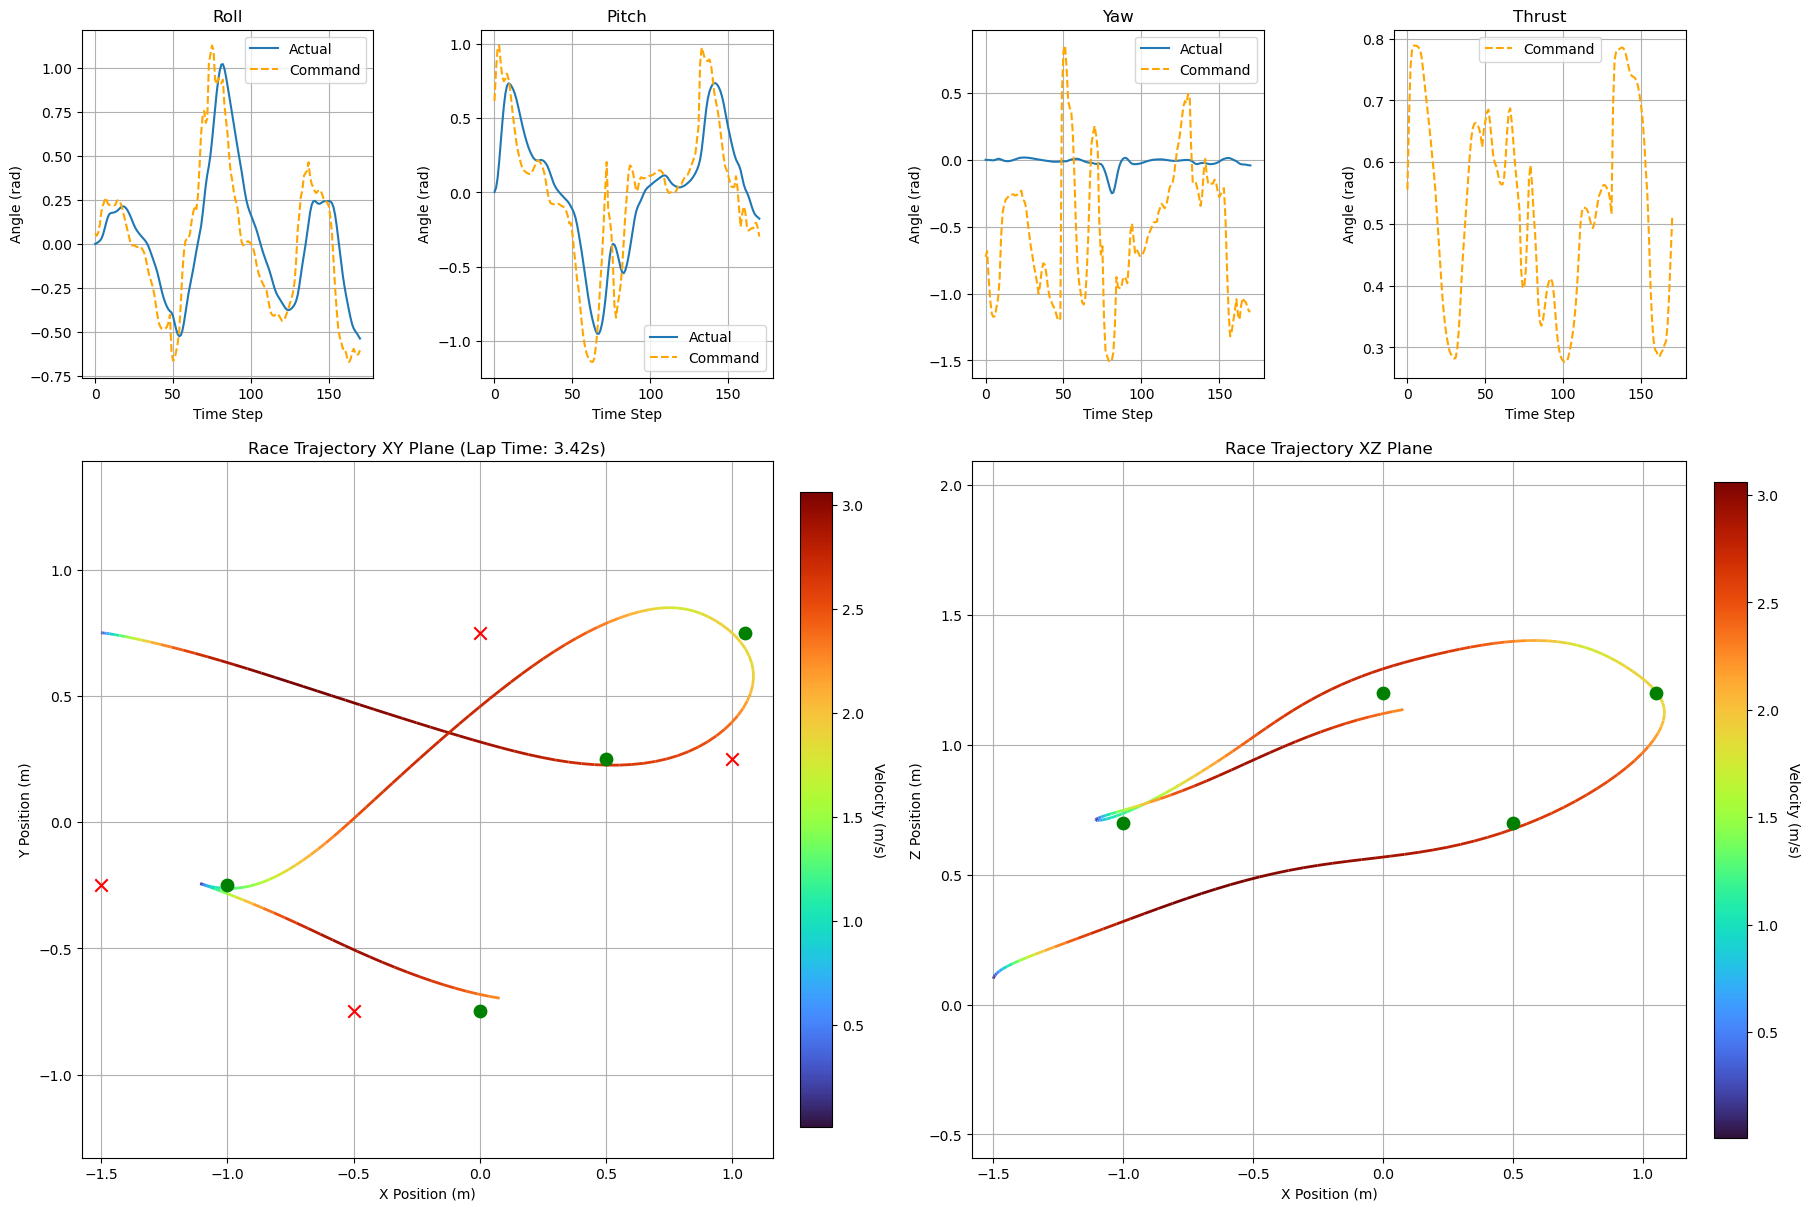
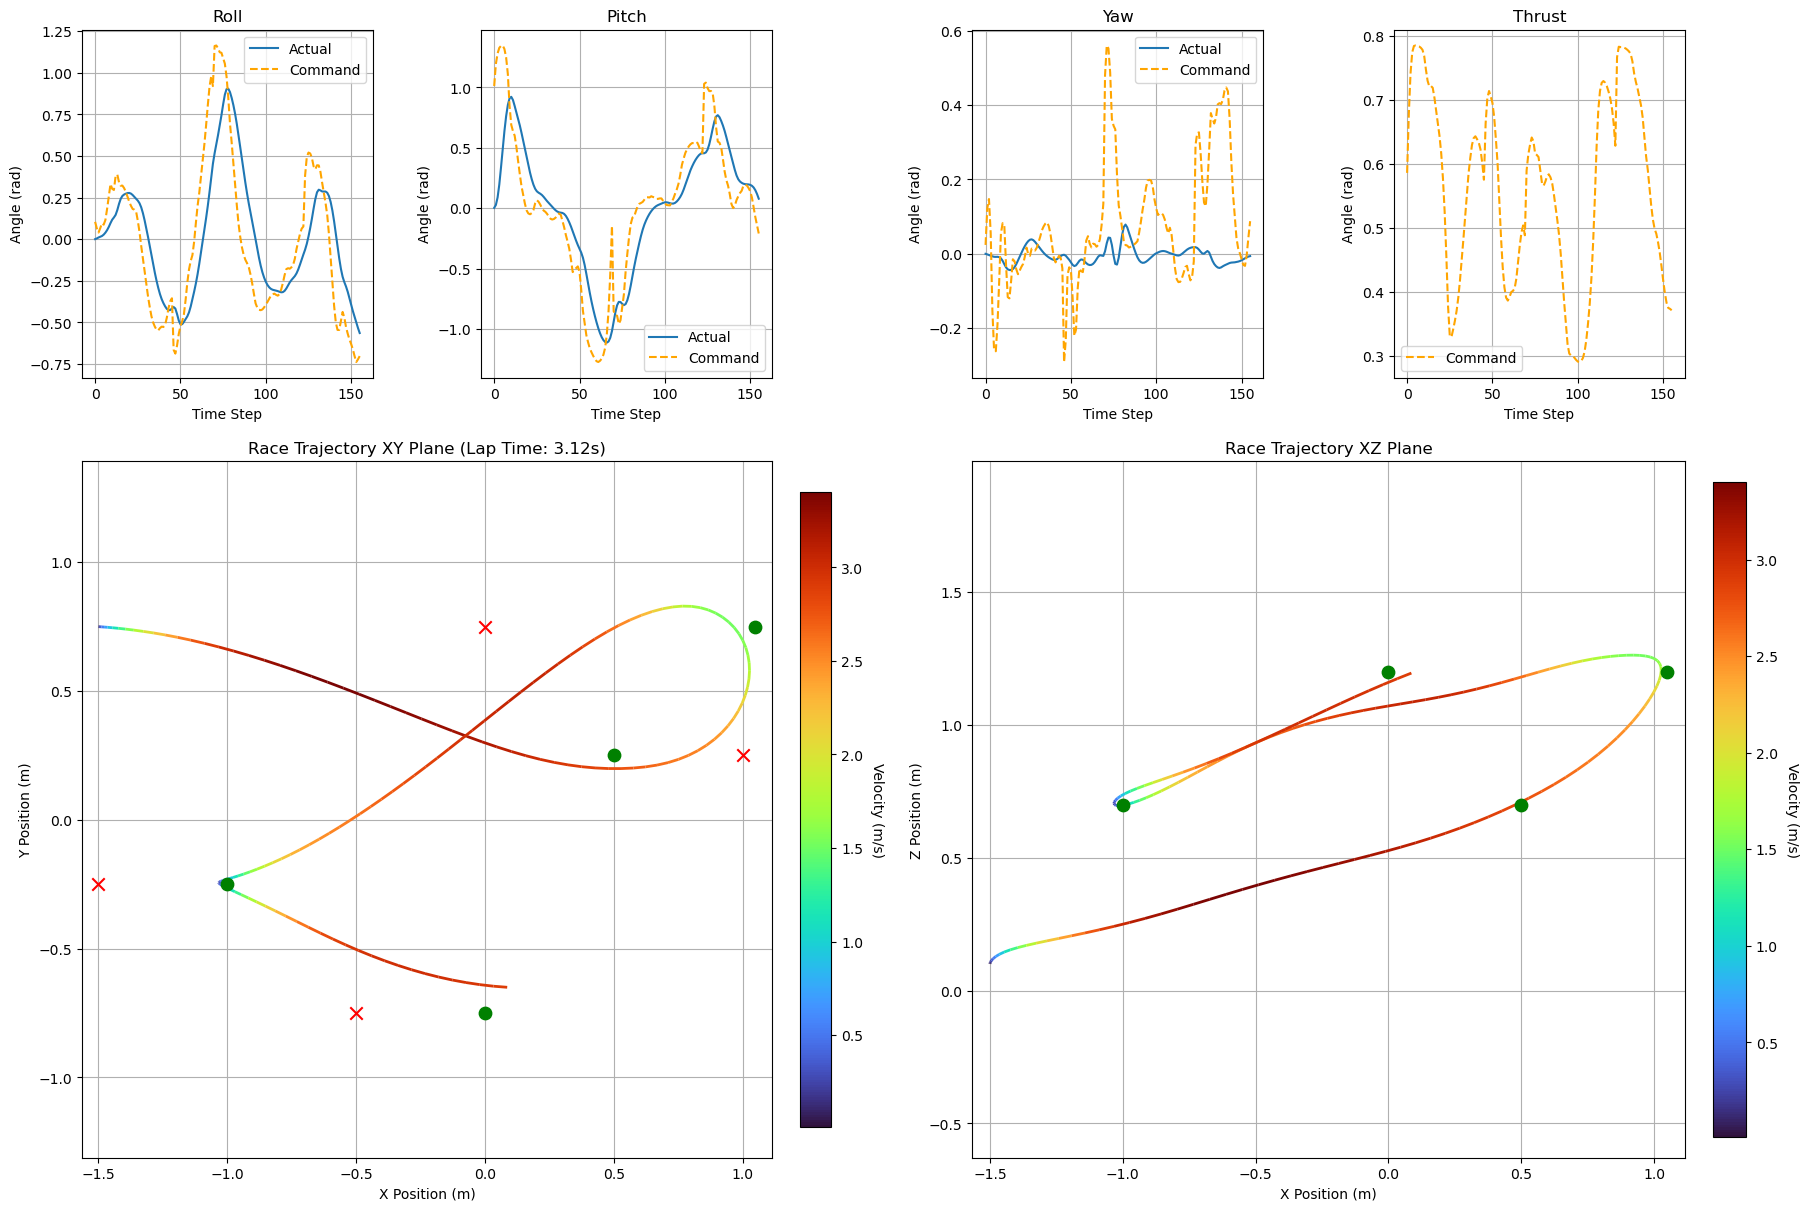
Fix ppo race training.

diff --git a/rl_diffsim/ppo/sweep_ppo.py b/rl_diffsim/ppo/sweep_ppo.py
@@ -5,7 +5,7 @@ from pathlib import Path
 import numpy as np
 
 import wandb
-from rl_diffsim.ppo.train_ppo_figure8 import Args, evaluate_ppo, train_ppo
+from rl_diffsim.ppo.train_ppo_race import Args, evaluate_ppo, train_ppo
 
 
 # 1: Define objective/training function
@@ -14,14 +14,14 @@ def train():
     with wandb.init(project="rl_diffsim-PPO-sweep") as run:
         cfg = dict(run.config)
         # Rebuild coefficient tuples from flattened sweep parameters if present
-        act_coefs = tuple(
-            cfg.pop(f"act_coefs_{i}") if f"act_coefs_{i}" in cfg else Args.act_coefs[i]
-            for i in range(len(Args.act_coefs))
-        )
-        d_act_coefs = tuple(
-            cfg.pop(f"d_act_coefs_{i}") if f"d_act_coefs_{i}" in cfg else Args.d_act_coefs[i]
-            for i in range(len(Args.d_act_coefs))
-        )
+        # act_coefs = tuple(
+        #     cfg.pop(f"act_coefs_{i}") if f"act_coefs_{i}" in cfg else Args.act_coefs[i]
+        #     for i in range(len(Args.act_coefs))
+        # )
+        # d_act_coefs = tuple(
+        #     cfg.pop(f"d_act_coefs_{i}") if f"d_act_coefs_{i}" in cfg else Args.d_act_coefs[i]
+        #     for i in range(len(Args.d_act_coefs))
+        # )
         # gate_size = tuple(
         #     cfg.pop(f"gate_size_{i}") if f"gate_size_{i}" in cfg else Args.gate_size[i]
         #     for i in range(len(Args.gate_size))
@@ -34,8 +34,8 @@ def train():
         #     cfg.pop(f"contact_coef_{i}") if f"contact_coef_{i}" in cfg else Args.contact_coef[i]
         #     for i in range(len(Args.contact_coef))
         # )
-        cfg["act_coefs"] = act_coefs
-        cfg["d_act_coefs"] = d_act_coefs
+        # cfg["act_coefs"] = act_coefs
+        # cfg["d_act_coefs"] = d_act_coefs
         # cfg["gate_size"] = gate_size
         # cfg["gate_vel_coef"] = gate_vel_coef
         # cfg["contact_coef"] = contact_coef
@@ -47,26 +47,16 @@ def train():
         )
         # average over rewards curve: aiming at faster convergence
         mean_rewards = np.asarray(sum_rewards_hist).mean()
-        # # score based on final performance
-        # _, success_count, episode_rewards, avg_lap_time = evaluate_ppo(
-        #     args=args, n_eval=20, model_path=model_path, render=False, plot=False
-        # )
-        # score = success_count - avg_lap_time * 5.0
-        # run.log({"score": score})
-        # run.log({"mean_rewards": mean_rewards})
-        # run.log({"final_reward": np.mean(episode_rewards)})
-        # run.log({"success_count": success_count})
-        # run.log({"avg_lap_time": avg_lap_time})
-
-        _, rmse_pos, episode_rewards, _ = evaluate_ppo(
-            args=args, n_eval=1, model_path=model_path, render=False
+        # score based on final performance
+        _, success_count, episode_rewards, avg_lap_time = evaluate_ppo(
+            args=args, n_eval=1, model_path=model_path, render=False, plot=False
         )
-        score = mean_rewards - 200 * rmse_pos
+        score = -avg_lap_time
         run.log({"score": score})
         run.log({"mean_rewards": mean_rewards})
-        run.log({"training_time": training_time})
         run.log({"final_reward": np.mean(episode_rewards)})
-        run.log({"rmse_pos": rmse_pos})
+        run.log({"success_count": success_count})
+        run.log({"avg_lap_time": avg_lap_time})
 
 
 # 2: Define the search space
@@ -74,22 +64,14 @@ sweep_configuration = {
     "method": "bayes",  # "random", "bayes", "grid"
     "metric": {"goal": "maximize", "name": "score"},
     "parameters": {
-        # "num_envs": {"values": [1024]},
-        # "num_steps": {"values": [32, 48, 64]},
-        # "num_minibatches": {"values": [32, 48, 64]},
-        "actor_lr": {"distribution": "log_uniform_values", "min": 4e-4, "max": 3e-3},
-        # "critic_lr": {"distribution": "log_uniform_values", "min": 1e-3, "max": 1e-2},
-        # "gamma": {"min": 0.85, "max": 0.99},
-        # "gae_lambda": {"min": 0.85, "max": 0.99},
-        "hidden_size": {"values": [16, 24, 32]},
         # "seed": {"values": [0, 1, 2, 3, 4, 5, 6, 7, 8, 9]},
         # "num_envs": {"values": [1024, 2048]},
         # "num_steps": {"values": [48, 64, 96, 128]},
         # # "num_minibatches": {"values": [4, 8, 16]},
         # # "actor_lr": {"distribution": "log_uniform_values", "min": 5e-4, "max": 2e-3},
         # # "critic_lr": {"distribution": "log_uniform_values", "min": 1e-4, "max": 5e-3},
-        # "gamma": {"min": 0.85, "max": 0.99},
-        # "gae_lambda": {"min": 0.8, "max": 0.95},
+        "gamma": {"min": 0.93, "max": 0.98},
+        "gae_lambda": {"min": 0.93, "max": 0.98},
         # # "update_epochs": {"values": [7, 10, 15]},
         # # "clip_coef": {"min": 0.1, "max": 0.5},
         # # "ent_coef": {"min": 0.0, "max": 1e-2},
@@ -97,28 +79,28 @@ sweep_configuration = {
         # "hidden_size": {"values": [48, 64, 96]},
         # wrapper settings (race-specific)
         # "min_vel": {"distribution": "uniform", "min": 0.3, "max": 0.6},
-        # "max_vel": {"distribution": "uniform", "min": 1.0, "max": 2.5},
-        # "cont_gate_safe_dist": {"distribution": "uniform", "min": 0.05, "max": 0.2},
-        # "cont_obst_safe_dist": {"distribution": "uniform", "min": 0.05, "max": 0.2},
+        "max_vel": {"distribution": "uniform", "min": 2.0, "max": 4.5},
+        "cont_gate_safe_dist": {"distribution": "uniform", "min": 0.1, "max": 0.2},
+        "cont_obst_safe_dist": {"distribution": "uniform", "min": 0.2, "max": 0.25},
         # "gate_size_1": {"distribution": "uniform", "min": 0.2, "max": 0.5},
-        # "gate_vel_coef_0": {"distribution": "uniform", "min": 1.5, "max": 3.0},
+        "gate_vel_coef": {"distribution": "uniform", "min": 2.0, "max": 5.0},
         # "gate_vel_coef_1": {"distribution": "uniform", "min": 0.0, "max": 1.0},
-        # "contact_coef_1": {"distribution": "uniform", "min": 40.0, "max": 60.0},
-        "act_coefs_0": {"distribution": "uniform", "min": 0.01, "max": 0.2},
+        "contact_coef": {"distribution": "uniform", "min": 10.0, "max": 15.0},
+        # "act_coefs_0": {"distribution": "uniform", "min": 0.05, "max": 0.25},
         # "act_coefs_1": {"distribution": "uniform", "min": 0.05, "max": 0.25},
         # "act_coefs_2": {"distribution": "uniform", "min": 0.0, "max": 0.1},
-        "act_coefs_3": {"distribution": "uniform", "min": 0.01, "max": 0.2},
-        "d_act_coefs_0": {"distribution": "uniform", "min": 0.1, "max": 1.5},
+        # "act_coefs_3": {"distribution": "uniform", "min": 0.05, "max": 0.2},
+        # "d_act_coefs_0": {"distribution": "uniform", "min": 0.5, "max": 1.5},
         # "d_act_coefs_1": {"distribution": "uniform", "min": 0.5, "max": 1.5},
         # "d_act_coefs_2": {"distribution": "uniform", "min": 0.0, "max": 0.2},
-        "d_act_coefs_3": {"distribution": "uniform", "min": 0.1, "max": 0.9},
+        # "d_act_coefs_3": {"distribution": "uniform", "min": 0.2, "max": 0.8},
     },
 }
 
 
 # 3: Start the sweep
 sweep_id = wandb.sweep(
-    sweep=sweep_configuration, project=f"{Args().wandb_project_name}-sweep", entity="fresssack"
+    sweep=sweep_configuration, project=f"{Args().wandb_project_name}_sweep", entity="fresssack"
 )
 
 wandb.agent(sweep_id, function=train, count=50)

diff --git a/rl_diffsim/ppo/train_ppo_race.py b/rl_diffsim/ppo/train_ppo_race.py
@@ -45,19 +45,19 @@ class Args:
     """total timesteps of the experiments"""
     num_envs: int = 1024
     """the number of parallel game environments"""
-    num_steps: int = 48
+    num_steps: int = 64
     """the number of steps to run in each environment per policy rollout"""
-    num_minibatches: int = 48
+    num_minibatches: int = 64
     """the number of mini-batches"""
     anneal_lr: bool = True
     """Toggle learning rate annealing for policy and value networks"""
-    actor_lr: float = 6e-4
+    actor_lr: float = 2.5e-4
     """the learning rate of the actor optimizer"""
     critic_lr: float = 2.5e-3
     """the learning rate of the critic optimizer"""
-    gamma: float = 0.93
+    gamma: float = 0.956
     """the discount factor gamma"""
-    gae_lambda: float = 0.96
+    gae_lambda: float = 0.945
     """the lambda for the general advantage estimation"""
     update_epochs: int = 15
     """the K epochs to update the policy"""
@@ -88,18 +88,18 @@ class Args:
 
     # Wrapper settings
     min_vel: float = 0.4
-    max_vel: float = 2.5
+    max_vel: float = 4.0
     cont_floor_safe_dist: float = 0.05
     cont_gate_safe_dist: float = 0.14
-    cont_obst_safe_dist: float = 0.25
+    cont_obst_safe_dist: float = 0.24
     gate_size: float = 0.6
     gate_pos_coef: float = 0.0
-    gate_vel_coef: float = 2.0
+    gate_vel_coef: float = 4.4
     gate_pass_coef: float = 10.0
     gate_pass_pos_coef: float = 0.0
     gate_pass_vel_coef: float = 0.0
-    contact_coef: float = 13.0
-    act_coefs: tuple = (0.4, 0.4, 0.0, 0.06)
+    contact_coef: float = 14.0
+    act_coefs: tuple = (0.16, 0.16, 0.0, 0.06)
     d_act_coefs: tuple = (1.0, 1.0, 0.0, 0.8)
     """reward coefficients for training"""
 
@@ -562,7 +562,7 @@ def evaluate_ppo(
     }
     config = load_config(Path(__file__).parents[2] / "scripts/config_race.toml")
     eval_env = make_jitted_envs(
-        num_envs=1, jax_device=args.jax_device, coefs=r_coefs, config=config.env, check_contacts=False
+        num_envs=1, jax_device=args.jax_device, coefs=r_coefs, config=config.env, check_contacts=True
     )
     eval_env = RecordRaceData.create(eval_env)
 
@@ -607,8 +607,8 @@ def evaluate_ppo(
         ]
         success_mask[episode] = np.max(gates_passed) == eval_env.unwrapped.race_data.n_gates
         print(
-            f"Collision cost: {episode_reward:.2f}, Gates passed: {np.max(gates_passed)}, \
-                Lap time: {steps / config.env.freq:.2f} s"
+            f"Collision cost: {episode_reward:.2f}, Gates passed: {np.max(gates_passed)},",
+            f"Lap time: {steps / config.env.freq:.2f} s",
         )
         fig = eval_env.plot_eval(save_path=f"{args.exp_name}_eval_plot.png") if plot else None
 
@@ -624,7 +624,7 @@ def evaluate_ppo(
 
 # region Main
 def main(
-    wandb_enabled: bool = True, train: bool = True, n_eval: int = 1, render: bool = True, plot: bool = True
+    wandb_enabled: bool = True, train: bool = True, n_eval: int = 1, render: bool = False, plot: bool = True
 ):
     """Main entry.
 

diff --git a/rl_diffsim/ppo/train_ppo_race_lv2.py b/rl_diffsim/ppo/train_ppo_race_lv2.py
@@ -606,8 +606,8 @@ def evaluate_ppo(
         ]
         success_mask[episode] = np.max(gates_passed) == eval_env.unwrapped.race_data.n_gates
         print(
-            f"Collision cost: {episode_reward:.2f}, Gates passed: {np.max(gates_passed)}, \
-                Lap time: {steps / config.env.freq:.2f} s"
+            f"Collision cost: {episode_reward:.2f}, Gates passed: {np.max(gates_passed)},",
+            f"Lap time: {steps / config.env.freq:.2f} s",
         )
         fig = eval_env.plot_eval(save_path=f"{args.exp_name}_eval_plot.png") if plot else None
 
@@ -623,7 +623,7 @@ def evaluate_ppo(
 
 # region Main
 def main(
-    wandb_enabled: bool = True, train: bool = True, n_eval: int = 1, render: bool = True, plot: bool = True
+    wandb_enabled: bool = True, train: bool = True, n_eval: int = 1, render: bool = False, plot: bool = True
 ):
     """Main entry.
 

diff --git a/README.md b/README.md
@@ -91,7 +91,7 @@ python rl_diffsim/bptt/train_bptt_randtraj.py
 #### Drone Racing
 ```bash
 python rl_diffsim/bptt/train_bptt_race.py
-python rl_diffsim/bptt/train_bptt_race_lv2.py       # Level 2
+python rl_diffsim/bptt/train_bptt_race_lv2.py
 ```
 
 ### SHAC
@@ -100,7 +100,7 @@ python rl_diffsim/bptt/train_bptt_race_lv2.py       # Level 2
 
 ```bash
 python rl_diffsim/shac/train_shac_race.py
-python rl_diffsim/shac/train_shac_race_lv2.py       # Level 2
+python rl_diffsim/shac/train_shac_race_lv2.py
 ```
 
 ### PPO (Baseline)
@@ -109,7 +109,6 @@ python rl_diffsim/shac/train_shac_race_lv2.py       # Level 2
 
 ```bash
 python rl_diffsim/ppo/train_ppo_figure8.py
-python rl_diffsim/ppo/train_ppo_figure8ft.py        # Force torque interface
 ```
 
 #### Reach Position
@@ -122,7 +121,7 @@ python rl_diffsim/ppo/train_ppo_reachpos.py
 
 ```bash
 python rl_diffsim/ppo/train_ppo_race.py
-python rl_diffsim/ppo/train_ppo_race_lv2.py         # Level 2
+python rl_diffsim/ppo/train_ppo_race_lv2.py
 ```
 
 ### CL Arguments
@@ -151,5 +150,12 @@ Evaluate a trained model 10 times without retraining:
 python rl_diffsim/bptt/train_bptt_race.py -t False -n 10
 ```
 
+### Time the training
 
+For optimized training times, run a training script **twice** with **wandb logging disabled** to fully leverage the JAX cache.
 
+```bash
+python rl_diffsim/bptt/train_bptt_figure8.py -w False
+# then run again to see the best training time
+python rl_diffsim/bptt/train_bptt_figure8.py -w False
+```
